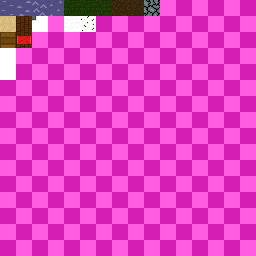
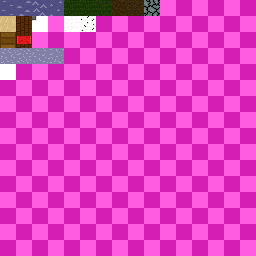
Add a shallow water tile

Changed region(s): [[0.0, 0.1875, 0.25, 0.25]]

diff --git a/RPG/Map/Tiles.cs b/RPG/Map/Tiles.cs
@@ -21,21 +21,27 @@ namespace TeamStor.RPG
 
                 public override string Name(SortedDictionary<string, string> metadata = null, Map.Environment environment = Map.Environment.Forest)
                 {
-                    if(environment == Map.Environment.Inside)
+                    if(environment == Map.Environment.Inside && ID == 0)
                         return "Void";
                     return base.Name(metadata, environment);
                 }
 
                 public override void Draw(Engine.Game game, Point mapPos, Map map, SortedDictionary<string, string> metadata, Map.Environment environment, Color? color = null)
                 {
-                    if(environment == Map.Environment.Inside)
+                    if(environment == Map.Environment.Inside && ID == 0)
                         game.Batch.Rectangle(new Rectangle(mapPos.X * 16, mapPos.Y * 16, 16, 16), Color.Black);
                     else
                         base.Draw(game, mapPos, map, metadata, environment, color);
                 }
+
+                public override string TransitionTexture(SortedDictionary<string, string> metadata = null, Map.Environment environment = Map.Environment.Forest)
+                {
+                    return "tiles/transitions/water.png";
+                }
             }
 
             public static Tile Water = new WaterTile(0, Tile.MapLayer.Terrain, "Water", new Point(0, 0), 4, 2, true);
+            public static Tile ShallowWater = new WaterTile(1, Tile.MapLayer.Terrain, "Shallow Water", new Point(0, 3), 4, 3, true);
 
             public static Tile Grass = new GrassTile(10, Tile.MapLayer.Terrain, "Grass", 
                 new Point[] {
